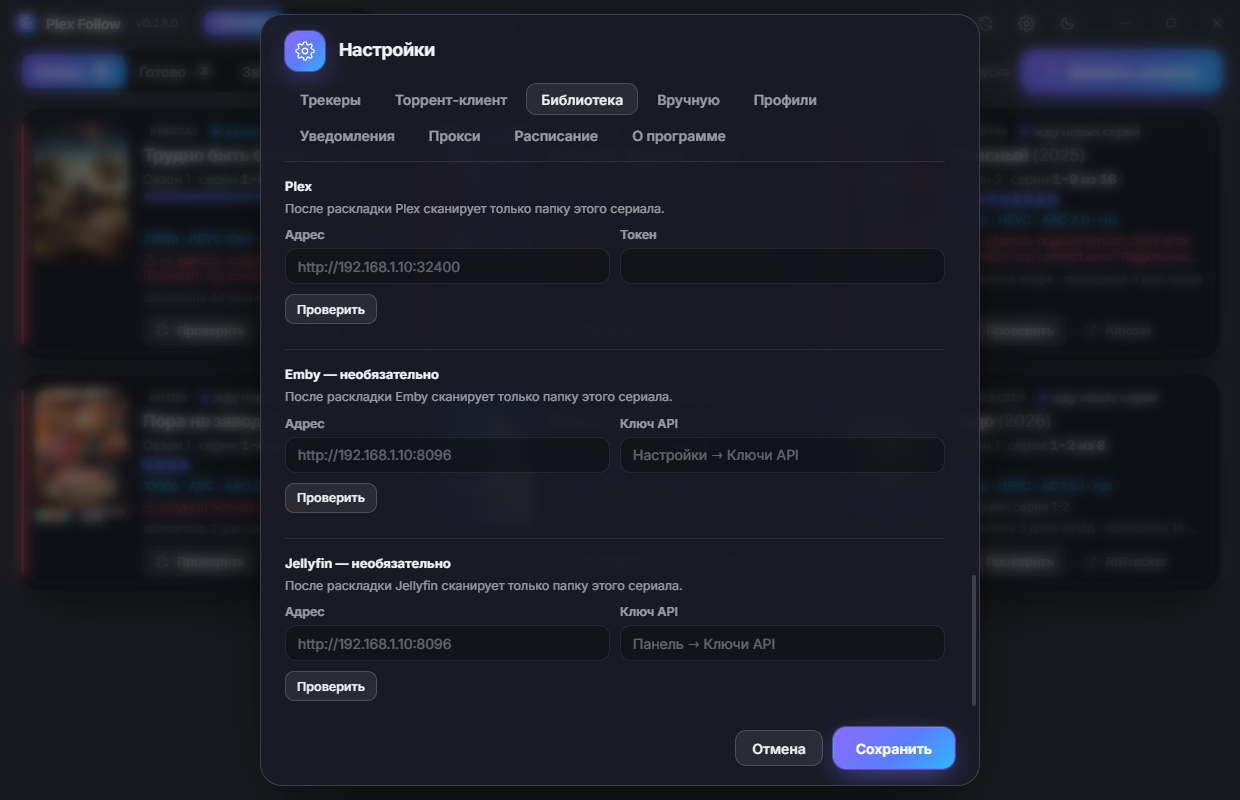
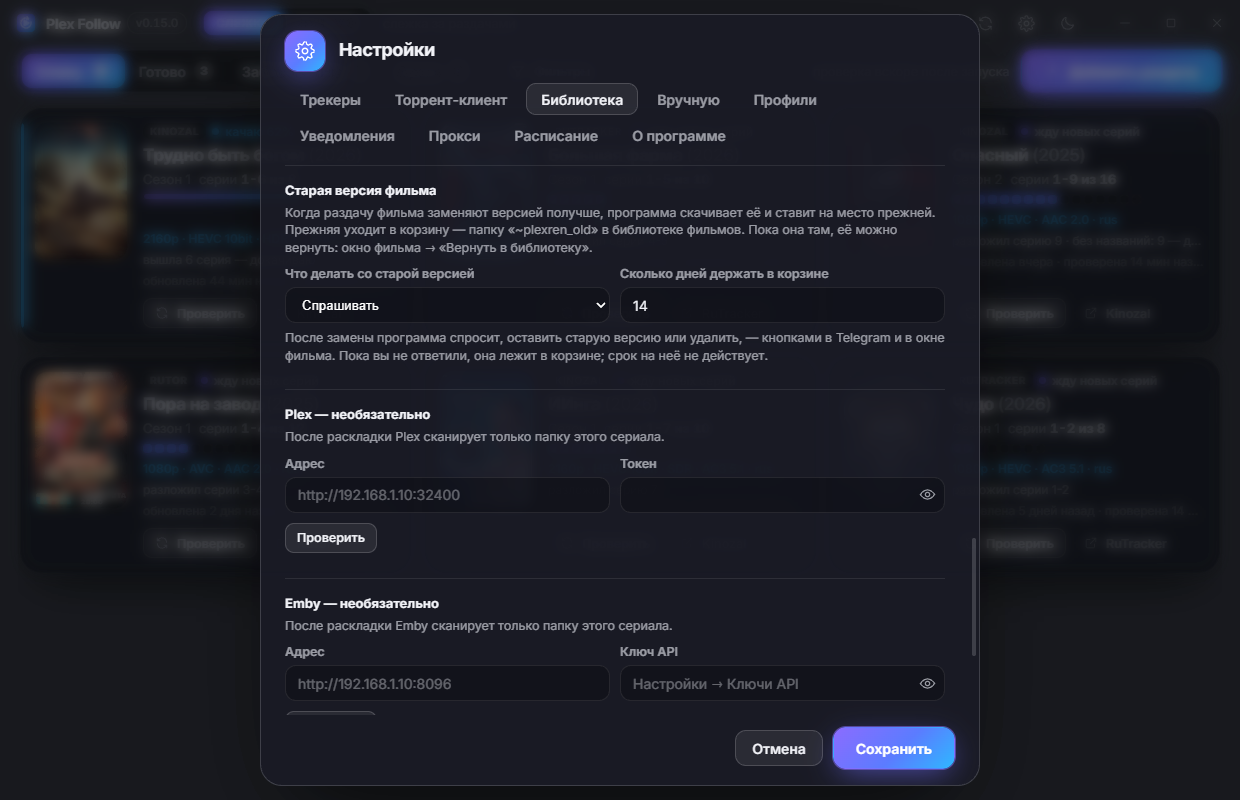
README: magnet и .torrent, корзина старых версий, уведомления, сторож места, «Разное», фильтры; новые снимки окна

diff --git a/README.md b/README.md
@@ -30,6 +30,8 @@ Plex, Emby и Jellyfin обновляют сериал, а вам приходи
     └── Сериал - S02E09 - Название серии.mkv
 ```
 
+Нет ссылки на страницу раздачи — подойдут [magnet-ссылка или файл .torrent](#magnet-и-файл-torrent).
+
 В программе два режима — переключатель в заголовке окна. **Слежка** всё делает сама. **Вручную** — для того, что скачано
 не через слежку: открыли папку, проверили имена и положили в библиотеку. Подробнее — [ниже](#режим-вручную).
 
@@ -37,26 +39,41 @@ Plex, Emby и Jellyfin обновляют сериал, а вам приходи
 
 | | |
 |---|---|
-| 📡 **Трекеры** | Kinozal, RuTracker, RuTor. Kinozal и RuTracker открываются в окне программы: вы сами проходите проверку Cloudflare и входите в аккаунт. Пароль вводится на сайте — программа его не видит и не хранит. |
-| ⬇ **Торрент-клиенты** | qBittorrent, Transmission, Deluge, rTorrent. Скорость и остаток закачки видны прямо в программе. |
+| 📡 **Трекеры** | Kinozal, RuTracker, RuTor. Kinozal и RuTracker открываются в окне программы: вы сами проходите проверку Cloudflare и входите в аккаунт на сайте — так программа пароль не видит и не хранит. Удобнее иначе — впишите логин и пароль в настройки: программа будет входить сама, а пароль сохранит зашифрованным. |
+| 🧲 **Magnet и .torrent** | Вместо ссылки на раздачу — magnet или файл .torrent. Если в файле записана страница раздачи, программа следит за ней как обычно; если нет — скачает и разложит в библиотеку один раз. |
+| ⬇ **Торрент-клиенты** | qBittorrent, Transmission, Deluge, rTorrent. Скорость и остаток закачки видны прямо в программе. Папку загрузок программа находит сама — достаточно вставить путь из Проводника. |
 | 🗂 **Раскладка в библиотеку** | Сериал и названия серий берутся с Кинопоиска, а чего там ещё нет — с TVmaze. Шаблоны имён настраиваются. Оригинал остаётся на раздаче. |
-| 🤖 **Бот в Telegram** | Пришлите боту ссылку на раздачу — он покажет сериал и кнопку «Следить». `/list` — за чем слежу, `/check` — проверить сейчас, `/stop` — перестать следить, `/undo` — отменить раскладку. |
+| 🎬 **Фильмы** | Ссылка на раздачу фильма — и он в библиотеке. Раздачу заменили версией получше — программа докачает её и заменит фильм. Прежняя версия уходит в корзину: программа спросит, что с ней делать, подержит заданное число дней или удалит сразу — как настроите. Пока версия в корзине, её можно вернуть. |
+| 📦 **«Разное»** | Игра, программа, что угодно: за такой раздачей программа только следит и докачивает обновления — без Кинопоиска, переименований и раскладки. Можно в отдельную папку. |
+| 🤖 **Бот в Telegram** | Пришлите боту ссылку на раздачу или magnet — он покажет сериал и кнопку «Следить». `/list` — за чем слежу, `/check` — проверить сейчас, `/stop` — перестать следить, `/undo` — отменить раскладку. |
+| 🔔 **Уведомления** | Не только Telegram: всплывающие уведомления Windows, почта и webhook — для ntfy, Gotify, Home Assistant и своих скриптов. Каждый способ включается отдельно. |
+| 💾 **Сторож места** | Закачка не начнётся, если после неё в папке загрузок останется меньше запаса (по умолчанию 20 ГБ). Программа напишет об этом, сама ничего не удалит и продолжит, когда место появится. |
 | ↩ **Отмена раскладки** | Сериал опознан неверно? Одна кнопка убирает из библиотеки то, что положила программа; скачанное остаётся в загрузках. Потом — «Разложить заново». |
 | 🧹 **Чистка при отмене** | Перестаёте следить — программа скажет, что осталось в библиотеке, и предложит убрать торрент, скачанное и серии этого сезона. Удобно, когда нашлась раздача в лучшем качестве. |
-| 🎬 **Фильмы** | Ссылка на раздачу фильма — и он в библиотеке. Раздачу заменили версией получше — программа докачает её и заменит фильм, а прежнюю версию сохранит для отката. |
 | ✋ **Режим «Вручную»** | Папка со скачанным сезоном или фильмом — в библиотеку за пару щелчков: программа узнаёт сериал по имени раздачи, даже если оно написано латиницей, расставляет номера и названия серий. С отменой и историей операций. |
 | 🏷 **Профили** | Свои правила для отдельных раздач: другой торрент-клиент, оригинальные или русские названия, своя папка библиотеки. Выбирается при добавлении — в окне или кнопкой в боте. |
+| 🔎 **Фильтры** | Раздач много? Поиск по названию, сериалы, фильмы или «Разное», трекер, год, размер и порядок списка. |
+| 🌐 **Прокси** | HTTP или SOCKS5 для трекеров и Telegram, если сайт не открывается. Прокси вашего VPN-клиента найдёт кнопка «Найти локальный прокси». |
+| 🔐 **Пароли под защитой** | Пароли, ключи и токены лежат в файле настроек зашифрованными средствами Windows и не попадают в журнал программы. |
 | 🌙 **Работа в фоне** | Живёт в трее, запускается вместе с Windows, может будить компьютер к следующей проверке и не даёт ему уснуть, пока идёт работа. |
-| 🔄 **Автообновление** | Новая версия ставится сама. Обновления подписаны: чужой файл программа не установит. |
+| 🔄 **Автообновление** | О новой версии программа сообщает сама и ставит её по одной кнопке. Обновления подписаны: чужой файл программа не установит. |
 
 <table>
 <tr>
-<td width="50%"><img src="screenshots/settings-trackers.png" alt="Настройки: трекеры"></td>
-<td width="50%"><img src="screenshots/settings-library.png" alt="Настройки: Plex, Emby и Jellyfin"></td>
+<td width="50%"><img src="screenshots/settings-trackers.png" alt="Настройки: трекеры — окно трекера или логин и пароль"></td>
+<td width="50%"><img src="screenshots/settings-library.png" alt="Настройки: старая версия фильма, Plex и Emby"></td>
 </tr>
 <tr>
-<td align="center"><sub>Трекеры открываются прямо в окне программы</sub></td>
-<td align="center"><sub>Plex, Emby и Jellyfin — можно все три сразу</sub></td>
+<td align="center"><sub>Трекеры: войти в окне программы или вписать логин и пароль</sub></td>
+<td align="center"><sub>Старая версия фильма — спрашивать, держать в корзине или удалять; Plex, Emby и Jellyfin — можно все три сразу</sub></td>
+</tr>
+<tr>
+<td width="50%"><img src="screenshots/settings-notify.png" alt="Настройки: уведомления Windows, почта и webhook"></td>
+<td width="50%"><img src="screenshots/filters.png" alt="Главное окно с открытой панелью фильтров"></td>
+</tr>
+<tr>
+<td align="center"><sub>Уведомления: Telegram, Windows, почта, webhook</sub></td>
+<td align="center"><sub>Фильтры: название, вид, трекер, год, размер, порядок</sub></td>
 </tr>
 </table>
 
@@ -66,6 +83,19 @@ Plex, Emby и Jellyfin обновляют сериал, а вам приходи
 - **Готово** — вышли все серии, всё разложено;
 - **Заброшенные** — раздача давно не обновлялась (по умолчанию 14 дней), а серий ещё не все. Обновится — вернётся в «Слежу»;
 - **Архив** — раздачи, за которыми вы перестали следить, и давно заброшенные. Отсюда их можно вернуть одной кнопкой.
+
+## Magnet и файл .torrent
+
+В окне «Добавить раздачу» годится не только ссылка на страницу раздачи:
+
+- **файл .torrent** — кнопка «Обзор…». Если трекер записал в файл страницу раздачи (так делает, например, RuTor),
+  программа встанет на обычную слежку за ней;
+- **magnet-ссылка** — в то же поле, что и обычная ссылка. Боту её тоже можно прислать.
+
+Когда страницы раздачи нет, следить не за чем: программа отдаст раздачу торрент-клиенту, дождётся закачки и разложит
+в библиотеку — один раз. Что это за сериал или фильм, она поймёт по имени раздачи и списку файлов.
+
+<p align="center"><img src="screenshots/add.png" width="760" alt="Окно «Добавить раздачу»: magnet-ссылка, фильм найден на Кинопоиске, кнопка «Скачать»"></p>
 
 ## Режим «Вручную»
 
@@ -91,8 +121,8 @@ Plex, Emby и Jellyfin обновляют сериал, а вам приходи
 
 ## Бот в Telegram
 
-Пришлите боту ссылку на раздачу — он найдёт сериал на Кинопоиске и покажет карточку с постером. Кнопка «Следить» — и дальше
-о каждой новой серии бот напишет сам: такой же карточкой, со ссылками на раздачу и Кинопоиск. Отвечает бот только вашему чату.
+Пришлите боту ссылку на раздачу или magnet — он найдёт сериал на Кинопоиске и покажет карточку с постером. Кнопка «Следить» —
+и дальше о каждой новой серии бот напишет сам: такой же карточкой, со ссылками на раздачу и Кинопоиск. Отвечает бот только вашему чату.
 
 <table>
 <tr>
@@ -110,13 +140,20 @@ Plex, Emby и Jellyfin обновляют сериал, а вам приходи
 Команды: `/list` — за чем слежу, `/check` — проверить сейчас, `/stop` — перестать следить (раздача уйдёт в архив, под сообщением —
 кнопка «Вернуть»), `/undo` — отменить раскладку. Меню команд и описание бот настраивает себе сам.
 
+Постер в сообщениях бывает двух видов: небольшой — афиша целиком на квадратной картинке, так по умолчанию, — и во весь размер,
+как на снимках выше. Выбирается в настройках, на вкладке «Уведомления». Когда фильм заменён новой версией, бот спросит,
+что делать со старой: оставить в корзине или удалить.
+
+Telegram не обязателен: те же события программа покажет всплывающим уведомлением Windows, пришлёт письмом или отправит
+на webhook — ntfy, Gotify, Home Assistant, свой скрипт.
+
 ## Как начать
 
 1. Скачайте и запустите [PlexFollow-Setup.exe](https://github.com/MrJosu/plex-follow-releases/releases/latest/download/PlexFollow-Setup.exe).
    Ставится для текущего пользователя, права администратора не нужны.
 2. В настройках укажите торрент-клиент, папку загрузок и папки библиотеки Plex.
-3. Откройте нужный трекер в окне программы (Настройки → Трекеры) и войдите в аккаунт.
-4. Добавьте ссылку на раздачу — дальше программа всё делает сама.
+3. Откройте нужный трекер в окне программы (Настройки → Трекеры) и войдите в аккаунт — или впишите там же логин и пароль.
+4. Добавьте раздачу: ссылку на её страницу, magnet или файл .torrent — дальше программа всё делает сама.
 
 Нужен только режим «Вручную»? Хватит первого шага: переключитесь на «Вручную» и перетащите папку на окно.
 Папки библиотеки и ключ Кинопоиска — в настройках, вкладка «Библиотека»; что делать с папкой — на вкладке «Вручную».
@@ -134,7 +171,7 @@ Plex, Emby и Jellyfin обновляют сериал, а вам приходи
 | Доступ к папке загрузок и к папкам библиотеки | программа копирует и переименовывает серии | да |
 | Ключ [Кинопоиска](https://kinopoiskapiunofficial.tech) (бесплатный) | названия серий и номер сериала | желательно |
 | Plex, Emby или Jellyfin | обновляют папку сериала после раскладки; можно все три сразу | нет |
-| Бот в Telegram | уведомления и добавление раздач с телефона | нет |
+| Бот в Telegram | уведомления и добавление раздач с телефона; уведомлять программа умеет и без него | нет |
 | FlareSolverr, Prowlarr | запасной путь к Kinozal и RuTracker | нет |
 
 Программа проверяет раздачи, пока запущена — в окне или в трее.
